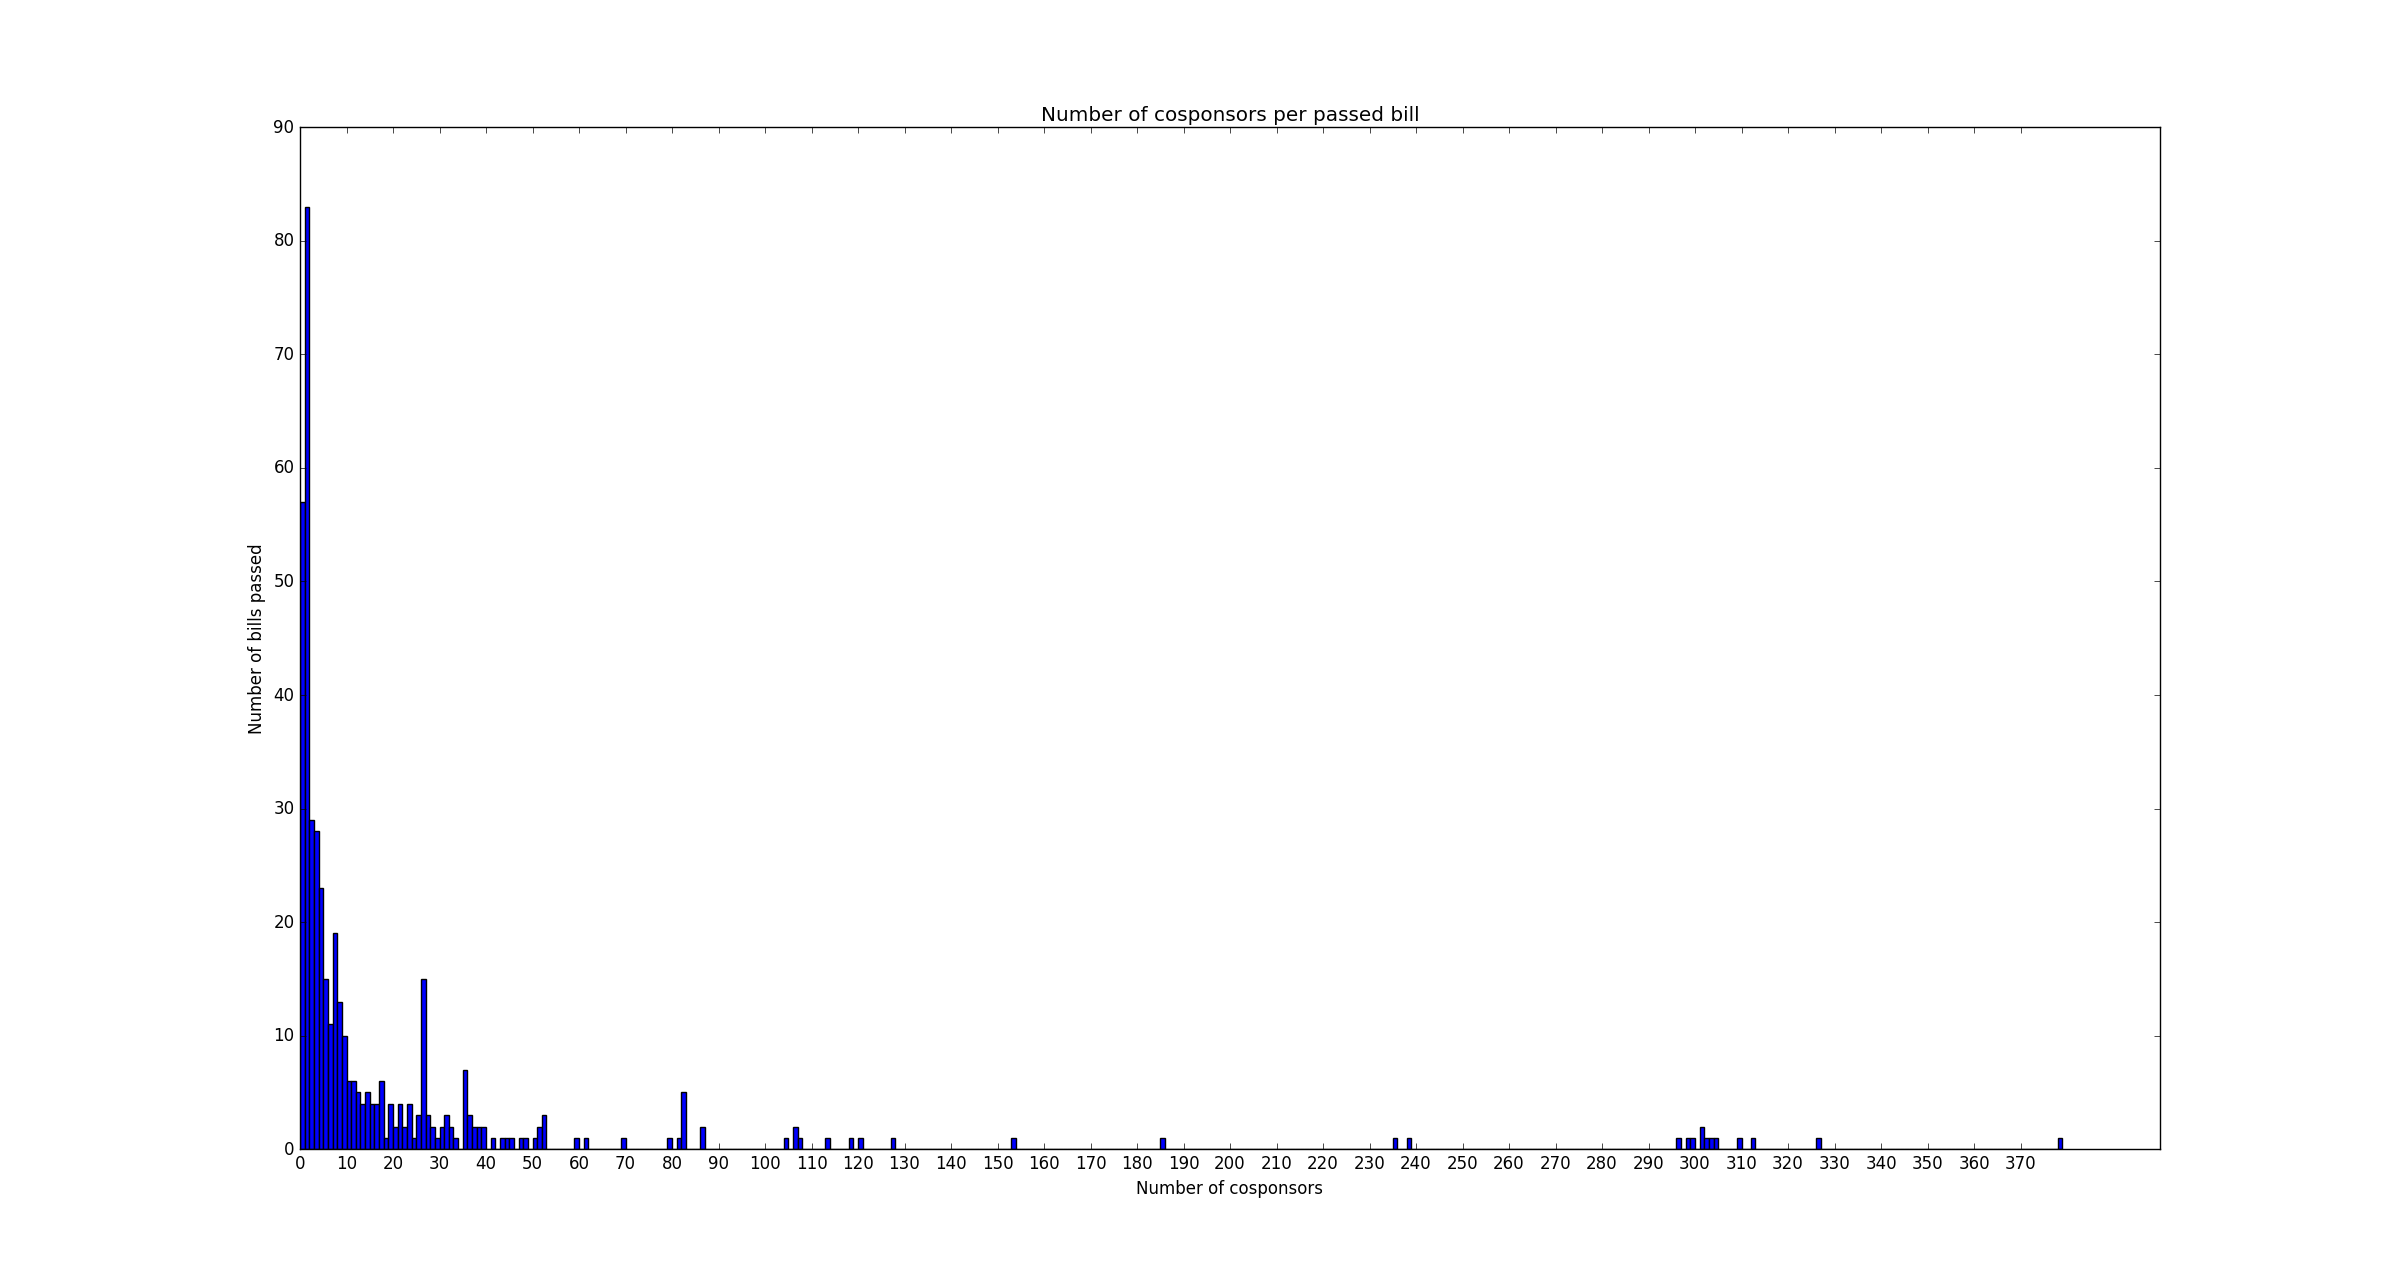
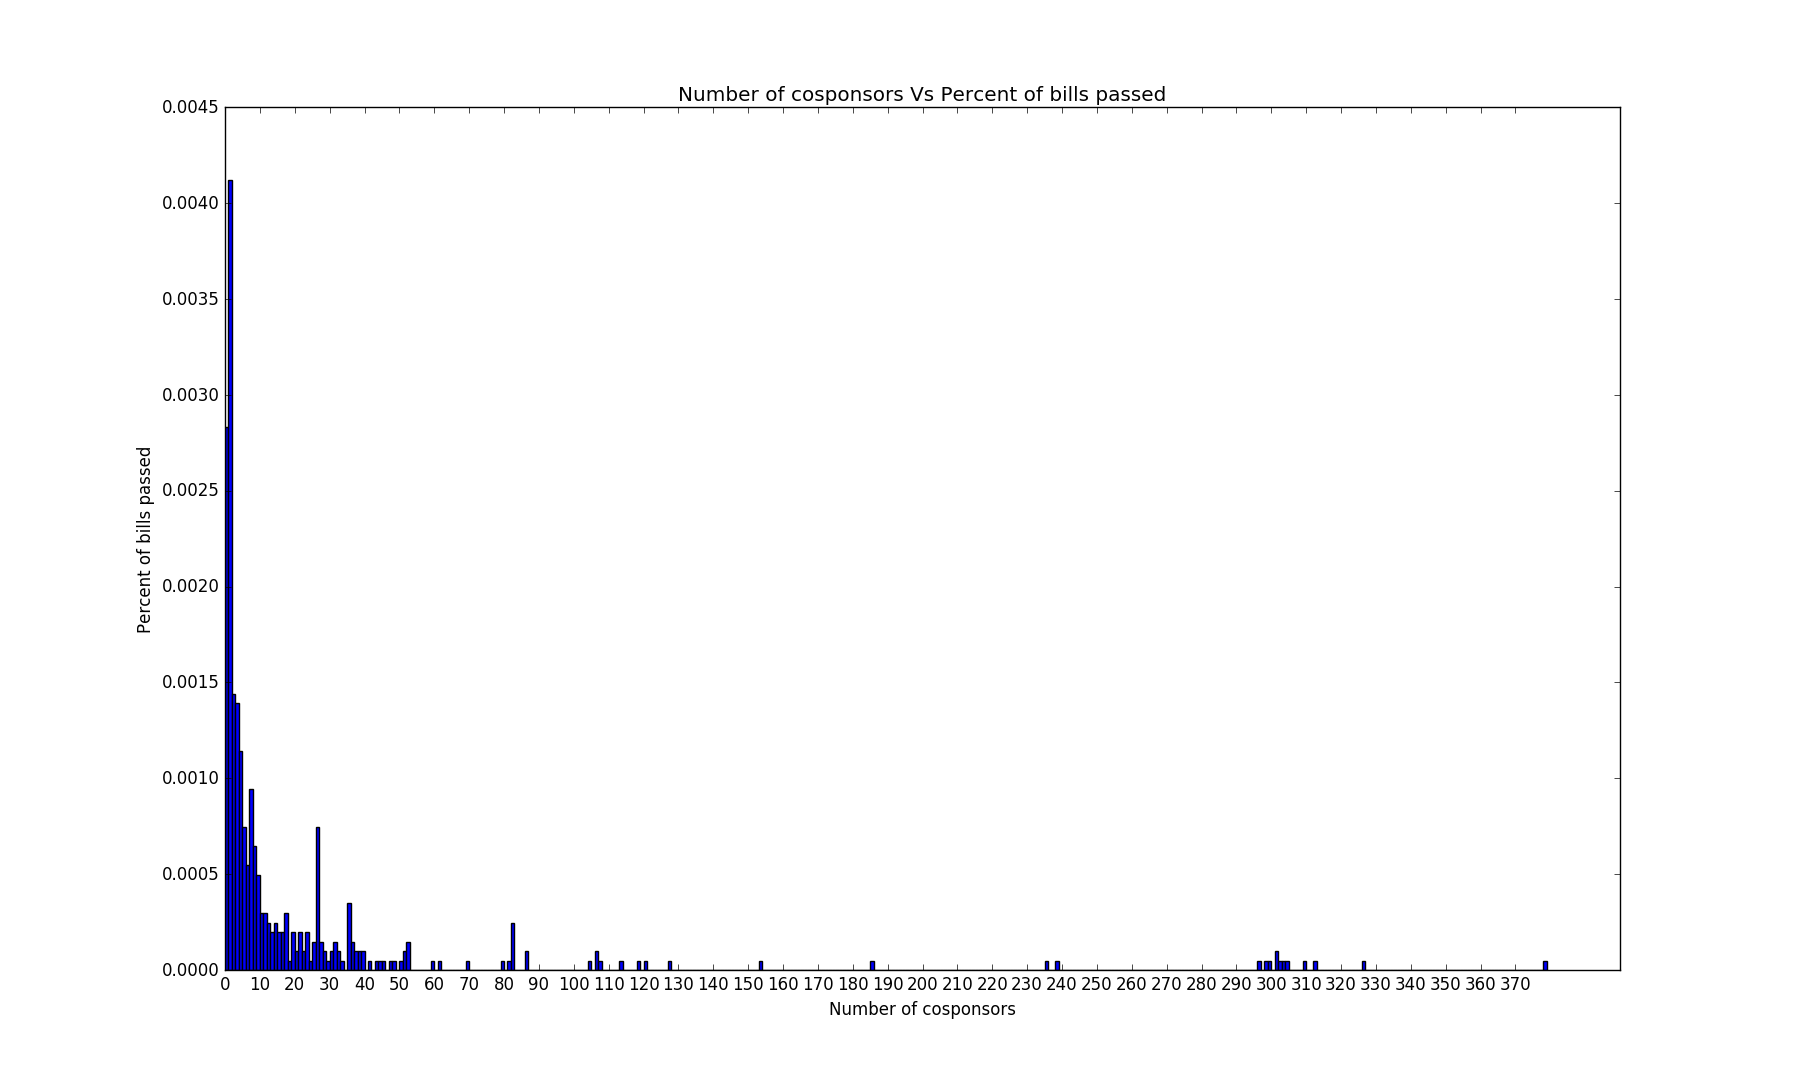
changed some stuff to percentages

Changed region(s): [[0.0622, 0.1531, 0.8711, 0.949], [0.3733, 0.0612, 0.6533, 0.1224], [0.0933, 0.0918, 0.1244, 0.1224]]

diff --git a/analyze.py b/analyze.py
@@ -12,25 +12,26 @@ with open("data.json","r") as f:
 
 def cosponsors_v_pass(data):
     cosp_v_pass = {}
-
+    count = 0
     for session in data.values():
         for typ in session.values():
             for bill in typ.values():
+                count += 1
                 if "becamePublicLaw" in bill['actions']:
                     cosp_v_pass[len(bill['cosponsors'])] = cosp_v_pass.get(len(bill['cosponsors']),0) + 1
 
     size = int(max(cosp_v_pass.keys())) + 1
     width = 1
-    occurrences = [cosp_v_pass.get(key,0) for key in range(size)]
+    occurrences = [cosp_v_pass.get(key,0)/count for key in range(size)]
     num_cosp = range(size)
 
     fig, ax = plt.subplots()
     chart1 = ax.bar(np.arange(size), occurrences, width)
 
     fig.canvas.set_window_title("cosponsors_vs_bills_passed")
-    ax.set_ylabel("Number of bills passed")
+    ax.set_ylabel("Percent of bills passed")
     ax.set_xlabel("Number of cosponsors")
-    ax.set_title("Number of cosponsors per passed bill")
+    ax.set_title("Number of cosponsors Vs Percent of bills passed")
     ax.set_xticks(np.arange(0,size,10))
 
     plt.show()
@@ -97,8 +98,9 @@ def states_and_parties(data):
     plt.show()
 
 def amendments(data):
-    amendments = {k:{"days":0,"passed":0,"unpassed":0,"count":0} for k in range(1000)}
+    amendments = {k:{"days":0,"passed":0,"count":0} for k in range(1000)}
     maximal = 0
+    passed = 0
     for session in data.values():
         for typ in session.values():
             for bill in typ.values():
@@ -109,14 +111,12 @@ def amendments(data):
                     end = datetime.fromtimestamp(time.mktime(time.strptime(bill['dates'][-1],"%Y-%m-%d")))
                     amendments[bill['amendments']]["days"] += (end - start).days
                     if "becamePublicLaw" in bill['actions']:
+                        passed += 1
                         amendments[bill['amendments']]['passed'] += 1 
-                    else:
-                        amendments[bill['amendments']]['unpassed'] += 1 
 
     num_amendments = range(maximal)
     days = [amendments[k]["days"]/amendments[k]["count"] if amendments[k]["count"] != 0 else 0 for k in num_amendments]
-    passed = [amendments[k]["passed"] for k in num_amendments]
-    unpassed = [amendments[k]["unpassed"] for k in num_amendments]
+    passed = [amendments[k]["passed"]/passed for k in num_amendments]
     width = 1
 
     fig, ax = plt.subplots()
@@ -134,22 +134,11 @@ def amendments(data):
     chart2 = ax.bar(np.arange(maximal), passed, width)
 
     fig.canvas.set_window_title("amendments_vs_passed")
-    ax.set_ylabel("Bills Passed")
+    ax.set_ylabel("Percent of Bills Passed")
     ax.set_xlabel("Number of amendments")
-    ax.set_title("Amendments vs Bills Passed")
+    ax.set_title("Amendments vs Percent of Bills Passed")
     ax.set_xticks(np.arange(0,maximal,10))
 
     plt.show()
 
-    fig, ax = plt.subplots()
-    chart3 = ax.bar(np.arange(maximal), unpassed, width)
-
-    fig.canvas.set_window_title("amendments_vs_unpassed")
-    ax.set_ylabel("Bills Unpassed")
-    ax.set_xlabel("Number of amendments")
-    ax.set_title("Amendments vs Number of bills unpassed")
-    ax.set_xticks(np.arange(0,maximal,10))
-
-    plt.show()
-
-amendments(data)
+cosponsors_v_pass(data)
